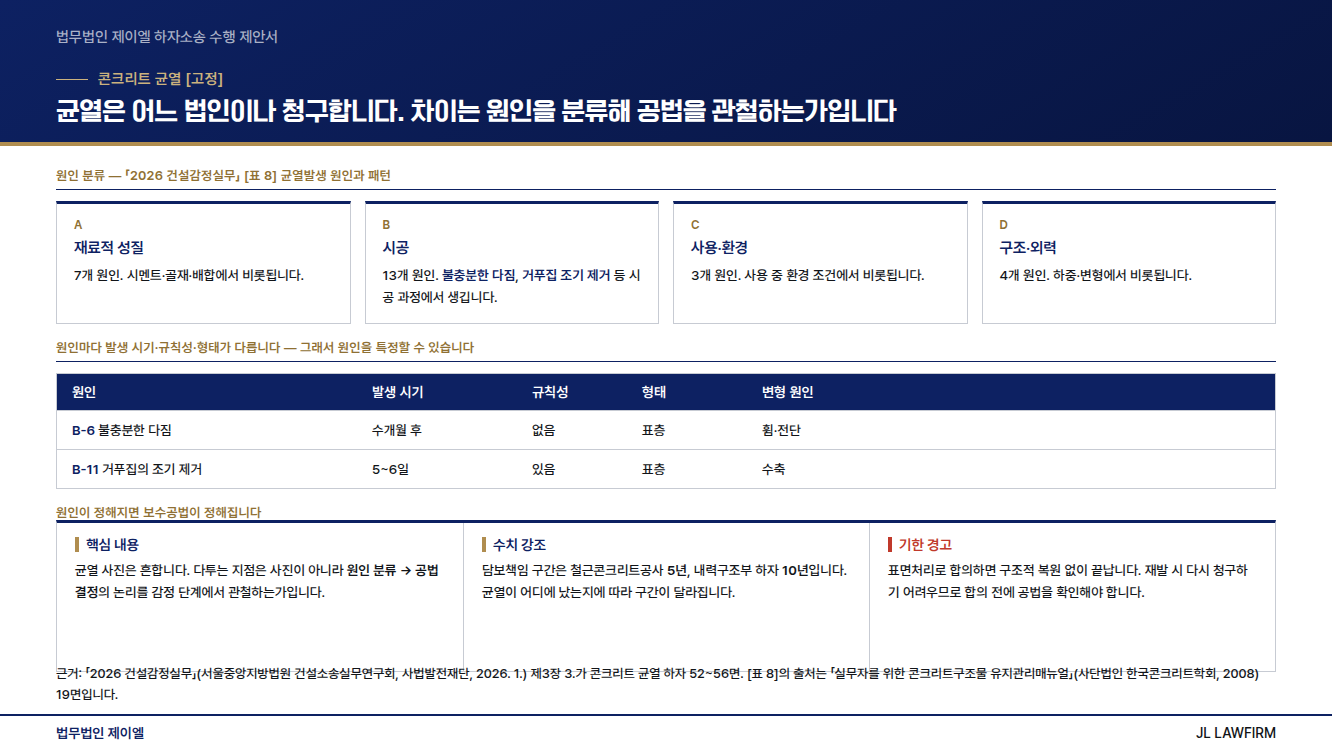
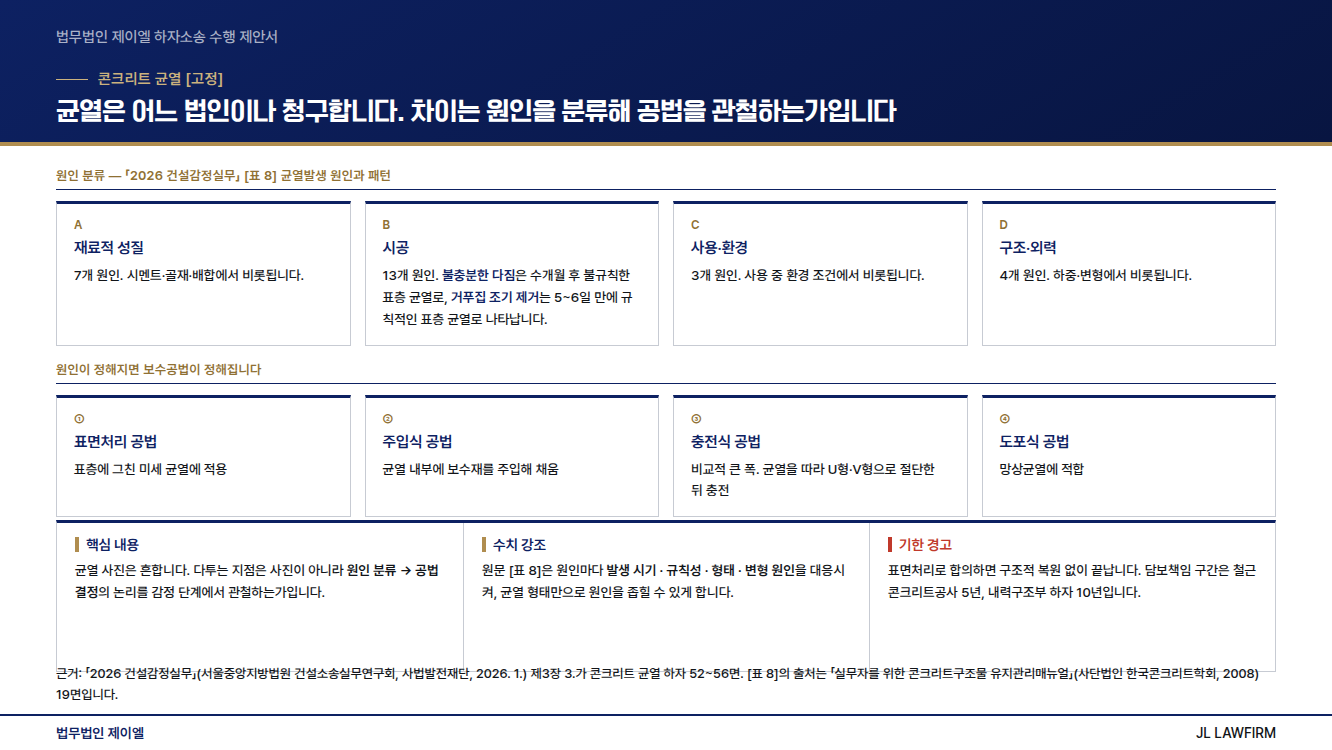
넘침 정리 8장 — 하단 밴드에 가려지던 내용 복구
S08b·S12c·S17b·S17d·S21b·S24b·S26c 내용을 덜어내고 tight 모드 적용,
S28 실적표는 18행이 들어가도록 행 높이·글자를 줄였다.

검수: 넘침 0건 · 공백 120px 이상 0장 / 60장 · 인터로 귀속 단지명 0건

Claude-Session: https://claude.ai/code/session_01McKVzc7RRv66NSkAtofwT1

diff --git a/template/design/S24b_CostTiming.dc.html b/template/design/S24b_CostTiming.dc.html
@@ -22,7 +22,7 @@
   .footer .firm{color:var(--navy);font-weight:700;}
 
   /* ── 본문 프리미티브 ── */
-  .body{position:absolute;left:56px;right:56px;top:168px;bottom:246px;}
+  .body{position:absolute;left:56px;right:56px;top:168px;bottom:220px;}
   .sec{font-size:13px;font-weight:800;color:var(--gold-ink);letter-spacing:.02em;
     padding-bottom:6px;border-bottom:1.6px solid var(--navy);margin-bottom:11px;}
   .sec+.sec,.blk+.sec{margin-top:16px;}
@@ -58,7 +58,7 @@
   .split{display:flex;gap:26px;height:100%;}
   .split>div{flex:1;}
 
-  .verify{position:absolute;left:56px;right:56px;bottom:78px;height:152px;
+  .verify{position:absolute;left:56px;right:56px;bottom:52px;height:152px;
     display:grid;grid-template-columns:1fr 1fr 1fr;
     border:1.4px solid var(--line);border-top:3px solid var(--navy);background:#fff;}
   .verify>div{padding:13px 18px 12px;border-left:1px solid var(--line);}
@@ -71,7 +71,7 @@
   .verify .warnk::before{background:#C0392B!important;}
   .verify *{background:transparent;}
 
-  .note{position:absolute;left:56px;right:56px;bottom:44px;font-size:13px;line-height:1.6;color:var(--ink);}
+  .note{position:absolute;left:56px;right:56px;bottom:52px;font-size:13px;line-height:1.6;color:var(--ink);}
 
   /* ── 법무법인 제안서 헤더 밴드 ── */
   body::before{content:"";position:absolute;left:0;top:0;right:0;height:142px;
@@ -85,15 +85,22 @@
   html,body{background:#FFFFFF!important;}
   body>*:not(.runner):not(.eyebrow):not(.title):not(.footer){z-index:1;}
   .footer{background:#fff;border-top:2px solid var(--navy)!important;z-index:2;}
+
+  /* 촘촘 모드 — 내용이 하단 밴드에 닿을 때 여백만 줄인다 */
+  .tbl .tr div{padding:6.6px 15px;}
+  .tbl .th div{padding:8px 15px;}
+  .kv .r{padding:4.6px 0;}
+  .sec{margin-bottom:9px;}
+  .sec+.sec,.blk+.sec{margin-top:12px;}
+  .c{padding:12px 16px;}
 </style>
 </head>
 <body>
   <div class="runner"><span>법무법인 제이엘 하자소송 수행 제안서</span></div>
   <div class="eyebrow">비용 발생 시점 [고정]</div>
   <div class="title">비용은 한꺼번에 나가지 않습니다. 절차 단계마다 나뉘어 발생합니다</div>
-  <div class="body"><div class="sec">단계별 발생 항목</div><div class="tbl blk" style="margin-bottom:14px"><div class="th"><div style="width:170px">시점</div><div style="width:230px">항목</div><div style="flex:1">성격</div></div><div class="tr"><div style="width:170px"><b>소 제기 시</b></div><div style="width:230px">인지대 · 송달료</div><div style="flex:1">법원 납부금</div></div><div class="tr"><div style="width:170px"><b>감정 신청 후</b></div><div style="width:230px">감정료</div><div style="flex:1">감정인에게 납부. 단지 규모에 따라 금액이 달라집니다</div></div><div class="tr"><div style="width:170px"><b>감정 진행 중</b></div><div style="width:230px">조사 실비</div><div style="flex:1">시료 채취 · 시험 의뢰 등에 드는 비용</div></div><div class="tr"><div style="width:170px"><b>보완 감정 시</b></div><div style="width:230px">추가 감정료</div><div style="flex:1">보완신청이 받아들여진 경우에 한해 발생</div></div><div class="tr"><div style="width:170px"><b>판결 이후</b></div><div style="width:230px">집행 비용</div><div style="flex:1">임의 이행되지 않을 때만 발생</div></div></div><div class="sec">부담 방식</div><div class="kv blk"><div class="r"><span>법무법인 대납</span><em>감정료·인지대·송달료를 <b>법무법인이 먼저 납부</b>하고 판결금 수령 시 정산하는 방식으로 진행합니다</em></div><div class="r"><span>보수 조건</span><em>착수금과 성공보수 요율은 <b>단지 여건에 맞춰 협의</b>합니다 [협의 사항]</em></div><div class="r"><span>패소 시 처리</span><em>패소 또는 일부 패소 시의 처리 방식도 계약 단계에서 명확히 정합니다 [협의 사항]</em></div></div></div>
-  <div class="verify"><div><div class="vk">핵심 내용</div><div class="vv">입주자대표회의가 가장 걱정하는 것은 "돈이 언제 얼마나 나가느냐"입니다. 시점을 먼저 보여드립니다.</div></div><div><div class="vk">수치 강조</div><div class="vv">금액이 가장 큰 것은 <b>감정료</b>이며 단지 세대수와 조사 항목 수에 따라 정해집니다. 감정인 지정 후 법원이 금액을 정합니다.</div></div><div><div class="vk warnk">기한 경고</div><div class="vv">감정료를 기한 내 납부하지 않으면 <b>감정 신청이 각하</b>될 수 있습니다. 납부 시점을 미리 안내드립니다.</div></div></div>
-  <div class="note">착수금·성공보수 요율·패소 시 처리는 계약 협의 사항이며, 이 제안서에는 확정 수치를 기재하지 않았습니다. 협의 후 계약서에 명시합니다.</div>
+  <div class="body"><div class="sec">단계별 발생 항목</div><div class="tbl blk" style="margin-bottom:16px"><div class="th"><div style="width:160px">시점</div><div style="width:200px">항목</div><div style="flex:1">성격</div></div><div class="tr"><div style="width:160px"><b>소 제기 시</b></div><div style="width:200px">인지대 · 송달료</div><div style="flex:1">법원 납부금</div></div><div class="tr"><div style="width:160px"><b>감정 신청 후</b></div><div style="width:200px">감정료</div><div style="flex:1">감정인에게 납부. 단지 규모에 따라 금액이 달라집니다</div></div><div class="tr"><div style="width:160px"><b>감정 진행 중</b></div><div style="width:200px">조사 실비</div><div style="flex:1">시료 채취 · 시험 의뢰 등에 드는 비용</div></div><div class="tr"><div style="width:160px"><b>보완 감정 시</b></div><div style="width:200px">추가 감정료</div><div style="flex:1">보완신청이 받아들여진 경우에 한해 발생</div></div><div class="tr"><div style="width:160px"><b>판결 이후</b></div><div style="width:200px">집행 비용</div><div style="flex:1">임의 이행되지 않을 때만 발생</div></div></div><div class="sec">부담 방식</div><div class="kv blk"><div class="r"><span>법무법인 대납</span><em>감정료·인지대·송달료를 <b>법무법인이 먼저 납부</b>하고 판결금 수령 시 정산하는 방식으로 진행합니다</em></div><div class="r"><span>협의 사항</span><em>착수금·성공보수 요율과 패소 시 처리 방식은 단지 여건에 맞춰 협의해 계약서에 명시합니다</em></div></div></div>
+  <div class="verify"><div><div class="vk">핵심 내용</div><div class="vv">입주자대표회의가 가장 걱정하는 것은 "돈이 언제 얼마나 나가느냐"입니다. 시점을 먼저 보여드립니다.</div></div><div><div class="vk">수치 강조</div><div class="vv">금액이 가장 큰 것은 <b>감정료</b>이며 단지 세대수와 조사 항목 수에 따라 법원이 정합니다.</div></div><div><div class="vk warnk">기한 경고</div><div class="vv">감정료를 기한 내 납부하지 않으면 <b>감정 신청이 각하</b>될 수 있습니다. 납부 시점을 미리 안내드립니다.</div></div></div>
   <div class="footer"><span class="firm">법무법인 제이엘</span><span>JL LAWFIRM</span></div>
 </body>
 </html>

diff --git a/template/design/S26c_Offices.dc.html b/template/design/S26c_Offices.dc.html
@@ -22,7 +22,7 @@
   .footer .firm{color:var(--navy);font-weight:700;}
 
   /* ── 본문 프리미티브 ── */
-  .body{position:absolute;left:56px;right:56px;top:168px;bottom:246px;}
+  .body{position:absolute;left:56px;right:56px;top:168px;bottom:220px;}
   .sec{font-size:13px;font-weight:800;color:var(--gold-ink);letter-spacing:.02em;
     padding-bottom:6px;border-bottom:1.6px solid var(--navy);margin-bottom:11px;}
   .sec+.sec,.blk+.sec{margin-top:16px;}
@@ -58,7 +58,7 @@
   .split{display:flex;gap:26px;height:100%;}
   .split>div{flex:1;}
 
-  .verify{position:absolute;left:56px;right:56px;bottom:78px;height:152px;
+  .verify{position:absolute;left:56px;right:56px;bottom:52px;height:152px;
     display:grid;grid-template-columns:1fr 1fr 1fr;
     border:1.4px solid var(--line);border-top:3px solid var(--navy);background:#fff;}
   .verify>div{padding:13px 18px 12px;border-left:1px solid var(--line);}
@@ -71,7 +71,7 @@
   .verify .warnk::before{background:#C0392B!important;}
   .verify *{background:transparent;}
 
-  .note{position:absolute;left:56px;right:56px;bottom:44px;font-size:13px;line-height:1.6;color:var(--ink);}
+  .note{position:absolute;left:56px;right:56px;bottom:52px;font-size:13px;line-height:1.6;color:var(--ink);}
 
   /* ── 법무법인 제안서 헤더 밴드 ── */
   body::before{content:"";position:absolute;left:0;top:0;right:0;height:142px;
@@ -85,15 +85,22 @@
   html,body{background:#FFFFFF!important;}
   body>*:not(.runner):not(.eyebrow):not(.title):not(.footer){z-index:1;}
   .footer{background:#fff;border-top:2px solid var(--navy)!important;z-index:2;}
+
+  /* 촘촘 모드 — 내용이 하단 밴드에 닿을 때 여백만 줄인다 */
+  .tbl .tr div{padding:6.6px 15px;}
+  .tbl .th div{padding:8px 15px;}
+  .kv .r{padding:4.6px 0;}
+  .sec{margin-bottom:9px;}
+  .sec+.sec,.blk+.sec{margin-top:12px;}
+  .c{padding:12px 16px;}
 </style>
 </head>
 <body>
   <div class="runner"><span>법무법인 제이엘 하자소송 수행 제안서</span></div>
   <div class="eyebrow">사무소 안내 [고정]</div>
   <div class="title">본사와 동탄 분사무소 두 곳에서 수도권·충청 단지를 맡습니다</div>
-  <div class="body"><div class="sec">사무소</div><div class="cards blk" style="grid-template-columns:repeat(2,1fr);margin-bottom:16px"><div class="c"><div class="cn">본사</div><div class="ck">서울 서초</div><div class="cv">서울 서초구 서초대로53길 15 정원빌딩 4층<br><b>02-537-0123</b><br>서울중앙지방법원·서울고등법원 인접</div></div><div class="c"><div class="cn">분사무소</div><div class="ck">경기 화성 동탄</div><div class="cv">경기 화성시 동탄순환대로 127-5 우성센트럴타워 914호<br><b>1899-4252</b><br>수원지방법원 관할 단지 대응</div></div></div><div class="sec">구성</div><div class="tbl blk" style="margin-bottom:14px"><div class="th"><div style="width:160px">구분</div><div style="width:200px">인원</div><div style="flex:1">역할</div></div><div class="tr"><div style="width:160px">변호사</div><div style="width:200px">7인</div><div style="flex:1">사건 수행 · 서면 작성 · 변론 · 감정 대응</div></div><div class="tr"><div style="width:160px">사무직원</div><div style="width:200px">36명</div><div style="flex:1">채권양도 서류 징구·검수 · 세대 명단 관리 · 송달 관리</div></div><div class="tr"><div style="width:160px">기술 인력</div><div style="width:200px">건축시공기술사</div><div style="flex:1">현장조사 입회 · 도면 대조 · 감정 항목 검토</div></div></div><div class="sec">왜 사무직원 규모를 밝히는가</div><div class="kv blk"><div class="r"><span>채권양도가 사무 업무다</span><em>1,000세대 단지면 서류가 1,000건입니다. 서명 확인·인적사항 대조·미회수 관리가 전부 수작업입니다</em></div><div class="r"><span>여기서 양도율이 갈린다</span><em>변호사 수보다 <b>징구를 감당할 인력이 있는가</b>가 실제 회수율을 좌우합니다</em></div></div></div>
-  <div class="verify"><div><div class="vk">핵심 내용</div><div class="vv">하자소송은 변호사 한 명이 서면만 써서 되는 사건이 아닙니다. 세대 단위 사무 처리량이 결과를 좌우합니다.</div></div><div><div class="vk">수치 강조</div><div class="vv">변호사 7인 · 사무직원 36명 구성입니다. 법원 인접 본사와 수도권 남부 분사무소로 <b>기일 대응 거리</b>를 줄였습니다.</div></div><div><div class="vk warnk">기한 경고</div><div class="vv">설명회와 서류 징구는 단지 일정에 맞춰야 합니다. 총회 일정이 정해지면 미리 알려 주시면 그 일정에 맞춰 준비합니다.</div></div></div>
-  <div class="note">홈페이지 www.jllawfirm.co.kr</div>
+  <div class="body"><div class="sec">사무소</div><div class="cards blk" style="grid-template-columns:repeat(2,1fr);margin-bottom:16px"><div class="c"><div class="cn">본사</div><div class="ck">서울 서초</div><div class="cv">서울 서초구 서초대로53길 15 정원빌딩 4층<br><b>02-537-0123</b><br>서울중앙지방법원·서울고등법원 인접</div></div><div class="c"><div class="cn">분사무소</div><div class="ck">경기 화성 동탄</div><div class="cv">경기 화성시 동탄순환대로 127-5 우성센트럴타워 914호<br><b>1899-4252</b><br>수원지방법원 관할 단지 대응 · www.jllawfirm.co.kr</div></div></div><div class="sec">구성 — 하자소송은 세대 단위 사무 처리량이 결과를 좌우합니다</div><div class="tbl blk" style=""><div class="th"><div style="width:150px">구분</div><div style="width:190px">인원</div><div style="flex:1">역할</div></div><div class="tr"><div style="width:150px">변호사</div><div style="width:190px">7인</div><div style="flex:1">사건 수행 · 서면 작성 · 변론 · 감정 대응</div></div><div class="tr"><div style="width:150px">사무직원</div><div style="width:190px">36명</div><div style="flex:1">채권양도 서류 징구·검수 · 세대 명단 관리 · 송달 관리</div></div><div class="tr"><div style="width:150px">기술 인력</div><div style="width:190px">건축시공기술사</div><div style="flex:1">현장조사 입회 · 도면 대조 · 감정 항목 검토</div></div></div></div>
+  <div class="verify"><div><div class="vk">핵심 내용</div><div class="vv">1,000세대 단지면 채권양도 서류가 1,000건입니다. 서명 확인·인적사항 대조·미회수 관리가 전부 수작업입니다.</div></div><div><div class="vk">수치 강조</div><div class="vv">변호사 수보다 <b>징구를 감당할 인력이 있는가</b>가 실제 회수율을 좌우합니다. 사무직원 36명 구성입니다.</div></div><div><div class="vk warnk">기한 경고</div><div class="vv">설명회와 서류 징구는 단지 일정에 맞춰야 합니다. 총회 일정이 정해지면 미리 알려 주십시오.</div></div></div>
   <div class="footer"><span class="firm">법무법인 제이엘</span><span>JL LAWFIRM</span></div>
 </body>
 </html>

diff --git a/template/design/S12c_AssociationPowers.dc.html b/template/design/S12c_AssociationPowers.dc.html
@@ -71,7 +71,7 @@
   .verify .warnk::before{background:#C0392B!important;}
   .verify *{background:transparent;}
 
-  .note{position:absolute;left:56px;right:56px;bottom:20px;font-size:13px;line-height:1.6;color:var(--ink);}
+  .note{position:absolute;left:56px;right:56px;bottom:52px;font-size:13px;line-height:1.6;color:var(--ink);}
 
   /* ── 법무법인 제안서 헤더 밴드 ── */
   body::before{content:"";position:absolute;left:0;top:0;right:0;height:142px;
@@ -85,14 +85,22 @@
   html,body{background:#FFFFFF!important;}
   body>*:not(.runner):not(.eyebrow):not(.title):not(.footer){z-index:1;}
   .footer{background:#fff;border-top:2px solid var(--navy)!important;z-index:2;}
+
+  /* 촘촘 모드 — 내용이 하단 밴드에 닿을 때 여백만 줄인다 */
+  .tbl .tr div{padding:6.6px 15px;}
+  .tbl .th div{padding:8px 15px;}
+  .kv .r{padding:4.6px 0;}
+  .sec{margin-bottom:9px;}
+  .sec+.sec,.blk+.sec{margin-top:12px;}
+  .c{padding:12px 16px;}
 </style>
 </head>
 <body>
   <div class="runner"><span>법무법인 제이엘 하자소송 수행 제안서</span></div>
   <div class="eyebrow">입주자대표회의의 지위 [고정]</div>
   <div class="title">입주자대표회의가 당연히 할 수 있는 것과, 세대 동의가 필요한 것은 다릅니다</div>
-  <div class="body"><div class="sec">구분해서 보아야 합니다</div><div class="tbl blk" style=""><div class="th"><div style="width:180px">구분</div><div style="width:300px">내용</div><div style="flex:1">근거·요건</div></div><div class="tr"><div style="width:180px"><b>권리로 인정되는 것</b></div><div style="width:300px">공용부분 하자에 관한 보수 청구</div><div style="flex:1">공동주택관리법 제37조 — 입대의가 청구권자로 규정</div></div><div class="tr"><div style="width:180px"><b>권리로 인정되는 것</b></div><div style="width:300px">하자보수보증금의 청구·수령</div><div style="flex:1">공동주택관리법 제38조</div></div><div class="tr"><div style="width:180px"><b>동의가 필요한 것</b></div><div style="width:300px">전유부분 하자의 손해배상청구</div><div style="flex:1"><b>세대별 채권양도</b> — 구분소유자가 채권자이기 때문</div></div><div class="tr"><div style="width:180px"><b>동의가 필요한 것</b></div><div style="width:300px">공용부분 손해배상청구</div><div style="flex:1">구분소유자로부터 채권을 양도받아 진행</div></div><div class="tr"><div style="width:180px"><b>협의로 정하는 것</b></div><div style="width:300px">소송 제기 여부와 위임 조건</div><div style="flex:1">입주자대표회의 의결 + 필요 시 입주자 동의 절차</div></div></div><div class="sec">그래서 채권양도가 소송의 출발점입니다</div><div class="kv blk"><div class="r"><span>왜 필요한가</span><em>하자로 인한 손해배상채권은 원칙적으로 <b>각 구분소유자</b>에게 있습니다. 입대의가 자기 이름으로 청구하려면 양도받아야 합니다</em></div><div class="r"><span>어떻게 진행하나</span><em>동의서·채권양도서를 세대별로 받고, 취합한 명단으로 양도 통지를 보냅니다 (차수별 진행)</em></div><div class="r"><span>무엇이 달라지나</span><em>양도율이 곧 청구 범위입니다. JL 수행 18건 중 15건에서 확인된 <b>평균 93.28%</b>입니다</em></div></div></div>
-  <div class="verify"><div><div class="vk">핵심 내용</div><div class="vv">권리로 단정할 수 있는 것과 세대 동의가 필요한 것을 구분해 설명드립니다. 이 구분을 흐리면 나중에 당사자적격 다툼이 생깁니다.</div></div><div><div class="vk">수치 강조</div><div class="vv">JL 수행 사건 판결문 15건에서 확인된 채권양도비율은 평균 93.28%, 중앙값 95.25%, 범위 75.01~100%입니다.</div></div><div><div class="vk warnk">기한 경고</div><div class="vv">양도서 징구에는 시간이 걸립니다. 존속기간이 임박한 단지는 1차 양도분만으로 먼저 소를 제기하고 추가 양도를 뒤에 붙입니다.</div></div></div>
+  <div class="body"><div class="sec">구분해서 보아야 합니다</div><div class="tbl blk" style="margin-bottom:16px"><div class="th"><div style="width:150px">구분</div><div style="width:290px">내용</div><div style="flex:1">근거·요건</div></div><div class="tr"><div style="width:150px"><b>권리로 인정</b></div><div style="width:290px">공용부분 하자에 관한 보수 청구</div><div style="flex:1">공동주택관리법 제37조 — 입대의가 청구권자</div></div><div class="tr"><div style="width:150px"><b>권리로 인정</b></div><div style="width:290px">하자보수보증금의 청구·수령</div><div style="flex:1">공동주택관리법 제38조</div></div><div class="tr"><div style="width:150px"><b>동의 필요</b></div><div style="width:290px">전유부분 하자의 손해배상청구</div><div style="flex:1"><b>세대별 채권양도</b> — 구분소유자가 채권자</div></div><div class="tr"><div style="width:150px"><b>동의 필요</b></div><div style="width:290px">공용부분 손해배상청구</div><div style="flex:1">구분소유자로부터 채권을 양도받아 진행</div></div><div class="tr"><div style="width:150px"><b>협의로 결정</b></div><div style="width:290px">소송 제기 여부와 위임 조건</div><div style="flex:1">입대의 의결 + 필요 시 입주자 동의 절차</div></div></div><div class="sec">그래서 채권양도가 소송의 출발점입니다</div><div class="kv blk"><div class="r"><span>왜 필요한가</span><em>손해배상채권은 원칙적으로 <b>각 구분소유자</b>에게 있습니다. 입대의가 자기 이름으로 청구하려면 양도받아야 합니다</em></div><div class="r"><span>무엇이 달라지나</span><em>양도율이 곧 청구 범위입니다. JL 수행 18건 중 15건에서 확인된 <b>평균 93.28%</b>입니다</em></div></div></div>
+  <div class="verify"><div><div class="vk">핵심 내용</div><div class="vv">권리로 단정할 수 있는 것과 세대 동의가 필요한 것을 구분해 설명드립니다. 이 구분을 흐리면 나중에 당사자적격 다툼이 생깁니다.</div></div><div><div class="vk">수치 강조</div><div class="vv">JL 수행 사건 판결문 15건 기준 채권양도비율은 평균 93.28%, 중앙값 95.25%, 범위 75.01~100%입니다.</div></div><div><div class="vk warnk">기한 경고</div><div class="vv">양도서 징구에는 시간이 걸립니다. 존속기간이 임박한 단지는 1차 양도분만으로 먼저 소를 제기하고 추가 양도를 뒤에 붙입니다.</div></div></div>
   <div class="footer"><span class="firm">법무법인 제이엘</span><span>JL LAWFIRM</span></div>
 </body>
 </html>

diff --git a/template/design/S17b_ConcreteCrack.dc.html b/template/design/S17b_ConcreteCrack.dc.html
@@ -91,8 +91,8 @@
   <div class="runner"><span>법무법인 제이엘 하자소송 수행 제안서</span></div>
   <div class="eyebrow">콘크리트 균열 [고정]</div>
   <div class="title">균열은 어느 법인이나 청구합니다. 차이는 원인을 분류해 공법을 관철하는가입니다</div>
-  <div class="body"><div class="sec">원인 분류 — 「2026 건설감정실무」 [표 8] 균열발생 원인과 패턴</div><div class="cards blk" style="grid-template-columns:repeat(4,1fr);margin-bottom:14px"><div class="c"><div class="cn">A</div><div class="ck">재료적 성질</div><div class="cv">7개 원인. 시멘트·골재·배합에서 비롯됩니다.</div></div><div class="c"><div class="cn">B</div><div class="ck">시공</div><div class="cv">13개 원인. <b>불충분한 다짐</b>, <b>거푸집 조기 제거</b> 등 시공 과정에서 생깁니다.</div></div><div class="c"><div class="cn">C</div><div class="ck">사용·환경</div><div class="cv">3개 원인. 사용 중 환경 조건에서 비롯됩니다.</div></div><div class="c"><div class="cn">D</div><div class="ck">구조·외력</div><div class="cv">4개 원인. 하중·변형에서 비롯됩니다.</div></div></div><div class="sec">원인마다 발생 시기·규칙성·형태가 다릅니다 — 그래서 원인을 특정할 수 있습니다</div><div class="tbl blk" style="margin-bottom:14px"><div class="th"><div style="width:300px">원인</div><div style="width:160px">발생 시기</div><div style="width:110px">규칙성</div><div style="width:120px">형태</div><div style="flex:1">변형 원인</div></div><div class="tr"><div style="width:300px"><b>B-6</b> 불충분한 다짐</div><div style="width:160px">수개월 후</div><div style="width:110px">없음</div><div style="width:120px">표층</div><div style="flex:1">휨·전단</div></div><div class="tr"><div style="width:300px"><b>B-11</b> 거푸집의 조기 제거</div><div style="width:160px">5~6일</div><div style="width:110px">있음</div><div style="width:120px">표층</div><div style="flex:1">수축</div></div></div><div class="sec">원인이 정해지면 보수공법이 정해집니다</div><div class="kv blk"><div class="r"><span>① 표면처리 공법</span><em>표층에 그친 미세 균열에 적용</em></div><div class="r"><span>② 주입식 공법</span><em>균열 내부에 보수재를 주입해 채움</em></div><div class="r"><span>③ 충전식 공법</span><em>비교적 큰 폭. 균열을 따라 U형·V형으로 절단한 뒤 보수재를 충전</em></div><div class="r"><span>④ 도포식 공법</span><em>망상균열에 적합</em></div></div></div>
-  <div class="verify"><div><div class="vk">핵심 내용</div><div class="vv">균열 사진은 흔합니다. 다투는 지점은 사진이 아니라 <b>원인 분류 → 공법 결정</b>의 논리를 감정 단계에서 관철하는가입니다.</div></div><div><div class="vk">수치 강조</div><div class="vv">담보책임 구간은 철근콘크리트공사 <b>5년</b>, 내력구조부 하자 <b>10년</b>입니다. 균열이 어디에 났는지에 따라 구간이 달라집니다.</div></div><div><div class="vk warnk">기한 경고</div><div class="vv">표면처리로 합의하면 구조적 복원 없이 끝납니다. 재발 시 다시 청구하기 어려우므로 합의 전에 공법을 확인해야 합니다.</div></div></div>
+  <div class="body"><div class="sec">원인 분류 — 「2026 건설감정실무」 [표 8] 균열발생 원인과 패턴</div><div class="cards blk" style="grid-template-columns:repeat(4,1fr);margin-bottom:16px"><div class="c"><div class="cn">A</div><div class="ck">재료적 성질</div><div class="cv">7개 원인. 시멘트·골재·배합에서 비롯됩니다.</div></div><div class="c"><div class="cn">B</div><div class="ck">시공</div><div class="cv">13개 원인. <b>불충분한 다짐</b>은 수개월 후 불규칙한 표층 균열로, <b>거푸집 조기 제거</b>는 5~6일 만에 규칙적인 표층 균열로 나타납니다.</div></div><div class="c"><div class="cn">C</div><div class="ck">사용·환경</div><div class="cv">3개 원인. 사용 중 환경 조건에서 비롯됩니다.</div></div><div class="c"><div class="cn">D</div><div class="ck">구조·외력</div><div class="cv">4개 원인. 하중·변형에서 비롯됩니다.</div></div></div><div class="sec">원인이 정해지면 보수공법이 정해집니다</div><div class="cards blk" style="grid-template-columns:repeat(4,1fr);"><div class="c"><div class="cn">①</div><div class="ck">표면처리 공법</div><div class="cv">표층에 그친 미세 균열에 적용</div></div><div class="c"><div class="cn">②</div><div class="ck">주입식 공법</div><div class="cv">균열 내부에 보수재를 주입해 채움</div></div><div class="c"><div class="cn">③</div><div class="ck">충전식 공법</div><div class="cv">비교적 큰 폭. 균열을 따라 U형·V형으로 절단한 뒤 충전</div></div><div class="c"><div class="cn">④</div><div class="ck">도포식 공법</div><div class="cv">망상균열에 적합</div></div></div></div>
+  <div class="verify"><div><div class="vk">핵심 내용</div><div class="vv">균열 사진은 흔합니다. 다투는 지점은 사진이 아니라 <b>원인 분류 → 공법 결정</b>의 논리를 감정 단계에서 관철하는가입니다.</div></div><div><div class="vk">수치 강조</div><div class="vv">원문 [표 8]은 원인마다 <b>발생 시기 · 규칙성 · 형태 · 변형 원인</b>을 대응시켜, 균열 형태만으로 원인을 좁힐 수 있게 합니다.</div></div><div><div class="vk warnk">기한 경고</div><div class="vv">표면처리로 합의하면 구조적 복원 없이 끝납니다. 담보책임 구간은 철근콘크리트공사 5년, 내력구조부 하자 10년입니다.</div></div></div>
   <div class="note">근거: 「2026 건설감정실무」(서울중앙지방법원 건설소송실무연구회, 사법발전재단, 2026. 1.) 제3장 3.가 콘크리트 균열 하자 52~56면. [표 8]의 출처는 「실무자를 위한 콘크리트구조물 유지관리매뉴얼」(사단법인 한국콘크리트학회, 2008) 19면입니다.</div>
   <div class="footer"><span class="firm">법무법인 제이엘</span><span>JL LAWFIRM</span></div>
 </body>

diff --git a/template/design/S17d_Insulation.dc.html b/template/design/S17d_Insulation.dc.html
@@ -91,9 +91,9 @@
   <div class="runner"><span>법무법인 제이엘 하자소송 수행 제안서</span></div>
   <div class="eyebrow">단열재 변경시공 · 결로 [고정]</div>
   <div class="title">단열재는 사용검사 전에 바뀌고, 결로는 사용검사 뒤에 나타납니다</div>
-  <div class="body"><div class="sec">원문 예시 — 설계와 실제의 차이</div><div class="cards blk" style="grid-template-columns:repeat(3,1fr);margin-bottom:15px"><div class="c"><div class="cn">설계</div><div class="ck">THK 85㎜ · 가등급</div><div class="cv">사용승인도면 형별성능관계내역에 기재된 사양입니다.</div></div><div class="c"><div class="cn">실제</div><div class="ck">THK 60㎜ · 나등급</div><div class="cv">두께와 등급이 모두 낮은 자재로 시공되었습니다.</div></div><div class="c"><div class="cn">결과</div><div class="ck">결로 · 곰팡이</div><div class="cv">시공은 사용검사 이전, 하자 현상은 사용검사일 이후에 나타납니다.</div></div></div><div class="sec">그래서 기간 판단이 갈립니다</div><div class="kv blk"><div class="r"><span>시공 시점</span><em>사용검사 이전 — 변경시공</em></div><div class="r"><span>현상 발생 시점</span><em>사용검사 이후 — 결로·곰팡이</em></div><div class="r"><span>원문의 판단</span><em>시공은 사용검사 이전이나 결로가 사용검사일 이후 발생했다면 <b>사용검사 이후 하자</b>로 판단합니다</em></div><div class="r"><span>실무상 의미</span><em><b>보수청구 공문으로 발생 시점을 특정</b>해 두는 절차가 담보책임기간 판단을 좌우합니다</em></div></div><div class="sec">조사 방법</div><div class="kv blk"><div class="r"><span>두께·등급</span><em>단열재를 국부 절개해 제품 표기를 촬영하고 형별성능관계내역과 대조합니다</em></div><div class="r"><span>결로 부위</span><em>발생 부위를 열화상으로 촬영해 단열 결손 위치를 특정합니다</em></div></div></div>
+  <div class="body"><div class="sec">원문 예시 — 설계와 실제의 차이</div><div class="cards blk" style="grid-template-columns:repeat(3,1fr);margin-bottom:16px"><div class="c"><div class="cn">설계</div><div class="ck">THK 85㎜ · 가등급</div><div class="cv">사용승인도면 형별성능관계내역에 기재된 사양입니다.</div></div><div class="c"><div class="cn">실제</div><div class="ck">THK 60㎜ · 나등급</div><div class="cv">두께와 등급이 모두 낮은 자재로 시공되었습니다.</div></div><div class="c"><div class="cn">결과</div><div class="ck">결로 · 곰팡이</div><div class="cv">시공은 사용검사 이전, 하자 현상은 사용검사일 이후에 나타납니다.</div></div></div><div class="sec">그래서 기간 판단이 갈리고, 조사 방법도 정해집니다</div><div class="kv blk"><div class="r"><span>원문의 판단</span><em>시공은 사용검사 이전이나 결로가 사용검사일 이후 발생했다면 <b>사용검사 이후 하자</b>로 봅니다</em></div><div class="r"><span>실무상 의미</span><em><b>보수청구 공문으로 발생 시점을 특정</b>해 두는 절차가 담보책임기간 판단을 좌우합니다</em></div><div class="r"><span>두께·등급 조사</span><em>단열재를 국부 절개해 제품 표기를 촬영하고 형별성능관계내역과 대조합니다</em></div><div class="r"><span>결로 부위 조사</span><em>발생 부위를 열화상으로 촬영해 단열 결손 위치를 특정합니다</em></div></div></div>
   <div class="verify"><div><div class="vk">핵심 내용</div><div class="vv">단열재는 벽 안에 있어 눈으로 확인할 수 없습니다. 절개 조사 없이는 설계와 다른 자재가 들어갔다는 사실 자체가 드러나지 않습니다.</div></div><div><div class="vk">수치 강조</div><div class="vv">단열공사의 담보책임 구간은 <b>3년</b>입니다. 다만 결로가 사용검사 이후 발생한 경우 그 발생 시점을 기준으로 판단합니다.</div></div><div><div class="vk warnk">기한 경고</div><div class="vv">결로는 겨울에만 드러납니다. 발생한 해에 보수청구 공문을 남겨두지 않으면 발생 시점을 나중에 증명하기 어렵습니다.</div></div></div>
-  <div class="note">근거: 「2026 건설감정실무」 43면 [예시1]. 결로 하자의 판정 기준·보수 범위는 같은 책 제3장 3.나(73면)에 별도로 규정되어 있으나 본문 미확보분이므로 이 제안서에서는 기준 수치를 인용하지 않았습니다.</div>
+  <div class="note">근거: 「2026 건설감정실무」 43면 [예시1]. 결로 하자의 판정 기준·보수 범위는 같은 책 제3장 3.나(73면)에 별도로 규정되어 있으나 본문 미확보분이므로 기준 수치는 인용하지 않았습니다.</div>
   <div class="footer"><span class="firm">법무법인 제이엘</span><span>JL LAWFIRM</span></div>
 </body>
 </html>

diff --git a/template/design/S21b_ReportContents.dc.html b/template/design/S21b_ReportContents.dc.html
@@ -85,13 +85,21 @@
   html,body{background:#FFFFFF!important;}
   body>*:not(.runner):not(.eyebrow):not(.title):not(.footer){z-index:1;}
   .footer{background:#fff;border-top:2px solid var(--navy)!important;z-index:2;}
+
+  /* 촘촘 모드 — 내용이 하단 밴드에 닿을 때 여백만 줄인다 */
+  .tbl .tr div{padding:6.6px 15px;}
+  .tbl .th div{padding:8px 15px;}
+  .kv .r{padding:4.6px 0;}
+  .sec{margin-bottom:9px;}
+  .sec+.sec,.blk+.sec{margin-top:12px;}
+  .c{padding:12px 16px;}
 </style>
 </head>
 <body>
   <div class="runner"><span>법무법인 제이엘 하자소송 수행 제안서</span></div>
   <div class="eyebrow">보고서 수록 항목 [고정]</div>
   <div class="title">보고서에는 진행 상황만이 아니라 판단에 필요한 것을 담습니다</div>
-  <div class="body"><div class="sec">정기 보고서 구성</div><div class="tbl blk" style="margin-bottom:14px"><div class="th"><div style="width:180px">구분</div><div style="flex:1">수록 항목</div></div><div class="tr"><div style="width:180px"><b>진행 현황</b></div><div style="flex:1">현재 단계 · 직전 기일 내용 · 다음 기일과 예정 사항</div></div><div class="tr"><div style="width:180px"><b>채권양도</b></div><div style="flex:1">차수별 양도 세대수와 비율 · 미회수 세대 현황</div></div><div class="tr"><div style="width:180px"><b>감정</b></div><div style="flex:1">감정인 지정 현황 · 감정료 납부 내역 · 현장조사 일정과 결과</div></div><div class="tr"><div style="width:180px"><b>쟁점</b></div><div style="flex:1">피고 주장 요지 · 이에 대한 대응 방향 · 판단이 필요한 사항</div></div><div class="tr"><div style="width:180px"><b>비용</b></div><div style="flex:1">기간 중 발생한 실비와 집행 내역</div></div><div class="tr"><div style="width:180px"><b>요청 사항</b></div><div style="flex:1">입주자대표회의가 준비하거나 결정해 주어야 할 것</div></div></div><div class="sec">별도 보고가 나가는 시점</div><div class="kv blk"><div class="r"><span>소장 접수</span><em>사건번호 · 재판부 · 피고 확정 내역</em></div><div class="r"><span>감정서 도착</span><em>인정 항목과 금액 · 보완신청 여부와 사유</em></div><div class="r"><span>판결 선고</span><em>인용 금액 · 책임제한 비율 · 항소 여부 검토 의견</em></div></div></div>
+  <div class="body"><div class="sec">정기 보고서 구성 — 월 1회</div><div class="tbl blk" style="margin-bottom:16px"><div class="th"><div style="width:170px">구분</div><div style="flex:1">수록 항목</div></div><div class="tr"><div style="width:170px"><b>진행 현황</b></div><div style="flex:1">현재 단계 · 직전 기일 내용 · 다음 기일과 예정 사항</div></div><div class="tr"><div style="width:170px"><b>채권양도</b></div><div style="flex:1">차수별 양도 세대수와 비율 · 미회수 세대 현황</div></div><div class="tr"><div style="width:170px"><b>감정</b></div><div style="flex:1">감정인 지정 현황 · 감정료 납부 내역 · 현장조사 일정과 결과</div></div><div class="tr"><div style="width:170px"><b>쟁점</b></div><div style="flex:1">피고 주장 요지 · 이에 대한 대응 방향 · 판단이 필요한 사항</div></div><div class="tr"><div style="width:170px"><b>비용</b></div><div style="flex:1">기간 중 발생한 실비와 집행 내역</div></div><div class="tr"><div style="width:170px"><b>요청 사항</b></div><div style="flex:1">입주자대표회의가 준비하거나 결정해 주어야 할 것</div></div></div><div class="sec">별도 보고가 나가는 시점</div><div class="kv blk"><div class="r"><span>소장 접수 · 감정서 도착 · 판결 선고</span><em>사건번호·재판부·피고 확정 내역 / 인정 항목과 금액·보완신청 여부 / 인용 금액·책임제한 비율·항소 검토 의견</em></div></div></div>
   <div class="verify"><div><div class="vk">핵심 내용</div><div class="vv">입주자대표회의는 총회와 주민설명회에서 설명해야 하는 위치에 있습니다. 그대로 쓸 수 있는 형식으로 정리해 드립니다.</div></div><div><div class="vk">수치 강조</div><div class="vv">정기 보고는 <b>월 1회</b>, 위 세 시점에는 별도 보고가 나갑니다. 움직임이 없는 달에도 현재 단계와 다음 일정을 알려드립니다.</div></div><div><div class="vk warnk">기한 경고</div><div class="vv">감정 구간은 길어 답답한 시기입니다. 이 구간에 연락이 끊기는 것이 가장 흔한 불만이라 정기 보고를 고정합니다.</div></div></div>
   <div class="footer"><span class="firm">법무법인 제이엘</span><span>JL LAWFIRM</span></div>
 </body>

diff --git a/template/design/S08b_InfoDisclosure.dc.html b/template/design/S08b_InfoDisclosure.dc.html
@@ -91,7 +91,7 @@
   <div class="runner"><span>법무법인 제이엘 하자소송 수행 제안서</span></div>
   <div class="eyebrow">설계도서 확보 [고정]</div>
   <div class="title">설계도서가 없으면 대조할 기준이 없습니다 — 정보공개청구로 확보합니다</div>
-  <div class="body"><div class="sec">왜 필요한가</div><div class="cards blk" style="grid-template-columns:repeat(3,1fr);margin-bottom:15px"><div class="c"><div class="ck">미시공은 도면으로 증명한다</div><div class="cv">"있어야 할 것이 없다"를 보이려면 <b>있어야 한다는 근거</b>가 필요합니다. 그 근거가 준공도면입니다.</div></div><div class="c"><div class="ck">변경시공은 사양서로 증명한다</div><div class="cv">THK 85가 60이 된 것을 보이려면 <b>형별성능관계내역</b>이 있어야 합니다.</div></div><div class="c"><div class="ck">부실시공은 시방서로 증명한다</div><div class="cv">두께·배합 기준은 <b>공사시방서</b>에 적혀 있습니다.</div></div></div><div class="sec">확보 대상과 경로</div><div class="tbl blk" style=""><div class="th"><div style="width:260px">자료</div><div style="width:260px">보유처</div><div style="flex:1">확보 경로</div></div><div class="tr"><div style="width:260px">준공도면 · 사용승인도면</div><div style="width:260px">관할 지자체 건축과</div><div style="flex:1"><b>정보공개청구</b></div></div><div class="tr"><div style="width:260px">공사시방서 · 준공내역서</div><div style="width:260px">사업주체 · 관할 지자체</div><div style="flex:1">정보공개청구 및 문서제출명령</div></div><div class="tr"><div style="width:260px">형별성능관계내역</div><div style="width:260px">관할 지자체</div><div style="flex:1">정보공개청구</div></div><div class="tr"><div style="width:260px">감리보고서</div><div style="width:260px">관할 지자체</div><div style="flex:1">정보공개청구</div></div><div class="tr"><div style="width:260px">하자보수 요구 공문·회신</div><div style="width:260px">입주자대표회의 · 관리사무소</div><div style="flex:1"><b>단지 보유 자료</b></div></div></div></div>
+  <div class="body"><div class="sec">왜 필요한가</div><div class="cards blk" style="grid-template-columns:repeat(3,1fr);margin-bottom:16px"><div class="c"><div class="ck">미시공은 도면으로</div><div class="cv">"있어야 할 것이 없다"를 보이려면 <b>있어야 한다는 근거</b>가 필요합니다. 그것이 준공도면입니다.</div></div><div class="c"><div class="ck">변경시공은 사양서로</div><div class="cv">THK 85가 60이 된 것을 보이려면 <b>형별성능관계내역</b>이 있어야 합니다.</div></div><div class="c"><div class="ck">부실시공은 시방서로</div><div class="cv">두께·배합 기준은 <b>공사시방서</b>에 적혀 있습니다.</div></div></div><div class="sec">확보 대상과 경로</div><div class="tbl blk" style=""><div class="th"><div style="width:470px">자료</div><div style="flex:1">확보 경로</div></div><div class="tr"><div style="width:470px">준공도면 · 사용승인도면 · 형별성능관계내역 · 감리보고서</div><div style="flex:1">관할 지자체에 <b>정보공개청구</b></div></div><div class="tr"><div style="width:470px">공사시방서 · 준공내역서</div><div style="flex:1">정보공개청구 및 문서제출명령</div></div><div class="tr"><div style="width:470px">하자보수 요구 공문·회신 · 하자 접수대장</div><div style="flex:1"><b>단지 보유 자료</b> — 관리사무소에서 사본 확보</div></div></div></div>
   <div class="verify"><div><div class="vk">핵심 내용</div><div class="vv">설계도서 확보는 조사보다 먼저 합니다. 기준을 모르는 상태에서 현장을 보면 무엇이 하자인지 판단할 수 없습니다.</div></div><div><div class="vk">수치 강조</div><div class="vv">정보공개청구는 접수일부터 <b>10일 이내</b> 결정이 원칙이며, 부득이한 경우 10일 범위에서 연장될 수 있습니다 (정보공개법 제11조).</div></div><div><div class="vk warnk">기한 경고</div><div class="vv">비공개 결정이 나면 이의신청·행정심판을 거쳐야 해 시간이 더 걸립니다. 착수 직후 바로 청구를 넣습니다.</div></div></div>
   <div class="footer"><span class="firm">법무법인 제이엘</span><span>JL LAWFIRM</span></div>
 </body>

diff --git a/template/design/S28_TrackRecord.dc.html b/template/design/S28_TrackRecord.dc.html
@@ -37,15 +37,15 @@
   .band .r .b .v{font-size:26px;font-weight:800;letter-spacing:-.02em;}
   .band .r .b .k{margin-top:4px;font-size:12.5px;color:#CBB27E;}
 
-  .tbl{position:absolute;left:56px;right:56px;top:170px;font-size:12.5px;}
-  .th{display:flex;padding:9px 12px;background:#EFF2FB;color:#0D2162;font-weight:800;
+  .tbl{position:absolute;left:56px;right:56px;top:160px;font-size:11.4px;}
+  .th{display:flex;padding:7px 12px;background:#EFF2FB;color:#0D2162;font-weight:800;
     border-bottom:2px solid #0D2162;}
-  .tr{display:flex;padding:7.5px 12px;border-bottom:1px solid #DDE2ED;color:#111418;}
+  .tr{display:flex;padding:5.1px 12px;border-bottom:1px solid #DDE2ED;color:#111418;}
   .tr:nth-child(even){background:#F7F9FD;}
   .c1{width:150px;} .c2{flex:1.6;font-weight:700;} .c3{width:66px;text-align:right;}
   .c4{width:150px;text-align:right;} .c5{width:118px;text-align:right;font-weight:800;color:#0D2162;}
   .th .c5{color:#0D2162;}
-  .sum{display:flex;padding:11px 12px;background:#0D2162;color:#fff;font-weight:800;}
+  .sum{display:flex;padding:8px 12px;background:#0D2162;color:#fff;font-weight:800;}
   .sum .c5{color:#CBB27E;}
   .src{position:absolute;left:56px;right:56px;bottom:44px;font-size:12.5px;color:#111418;
     opacity:.8;line-height:1.6;}
